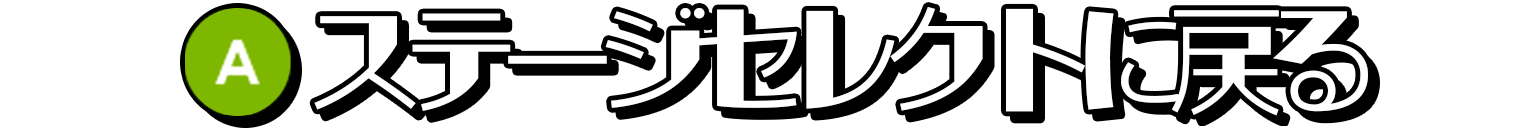
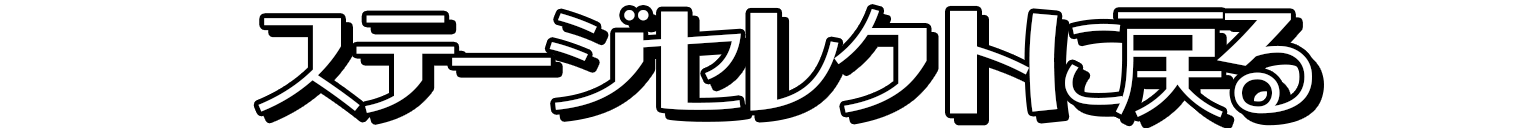
ゲームオーバーシーン改良

diff --git a/WinterGame_2025/Source/Scenes/SceneGameOver.cpp b/WinterGame_2025/Source/Scenes/SceneGameOver.cpp
@@ -20,6 +20,10 @@ SceneGameOver::SceneGameOver(SceneManager& manager,Stages playedStage,int score)
 	assert(_bgHandle != -1);
 	_gameOverHandle = LoadGraph("data/UI/GameOver.png");
 	assert(_gameOverHandle != -1);
+	_restartTextHandle = LoadGraph("data/UI/RestartText.png");
+	assert(_restartTextHandle != -1);
+	_backTextHandle = LoadGraph("data/UI/BackToStageSelectText.png");
+	assert(_backTextHandle != -1);
 
 	SoundManager::GetInstance().LoadSound("GameOverBgm", "data/Sounds/BGM/GameOverBGM.ogg", SoundType::BGM);
 	SoundManager::GetInstance().PlaySoundGame("GameOverBgm", true, true);
@@ -29,6 +33,8 @@ SceneGameOver::~SceneGameOver()
 {
 	DeleteGraph(_bgHandle);
 	DeleteGraph(_gameOverHandle);
+	DeleteGraph(_restartTextHandle);
+	DeleteGraph(_backTextHandle);
 
 	SoundManager::GetInstance().DeleteSound("GameOverBgm");
 }
@@ -68,10 +74,16 @@ void SceneGameOver::Draw()
 
 	if (_isSelectRestart)
 	{
-		DrawString(screenW / 2, screenH / 2 + 300, "-> Restart\nBack to Stage Select",0xffffff);
+		DrawRotaGraph(screenW / 2, screenH / 2 + 300, 0.6, 0.0, _restartTextHandle, true);
+		SetDrawBlendMode(DX_BLENDMODE_ALPHA, 128);
+		DrawRotaGraph(screenW / 2, screenH / 2 + 400, 0.4, 0.0, _backTextHandle, true);
+		SetDrawBlendMode(DX_BLENDMODE_NOBLEND, 0);
 	}
 	else
 	{
-		DrawString(screenW / 2, screenH / 2 + 300, "Restart\n-> Back to Stage Select", 0xffffff);
+		SetDrawBlendMode(DX_BLENDMODE_ALPHA, 128);
+		DrawRotaGraph(screenW / 2, screenH / 2 + 300, 0.4, 0.0, _restartTextHandle, true);
+		SetDrawBlendMode(DX_BLENDMODE_NOBLEND, 0);
+		DrawRotaGraph(screenW / 2, screenH / 2 + 400, 0.6, 0.0, _backTextHandle, true);
 	}
 }

diff --git a/WinterGame_2025/Source/Scenes/SceneGameOver.h b/WinterGame_2025/Source/Scenes/SceneGameOver.h
@@ -17,6 +17,9 @@ private:
 	int _bgHandle = -1;
 	int _gameOverHandle = -1;
 
+	int _restartTextHandle = -1;
+	int _backTextHandle = -1;
+
 	int _score;
 	bool _isSelectRestart;
 
